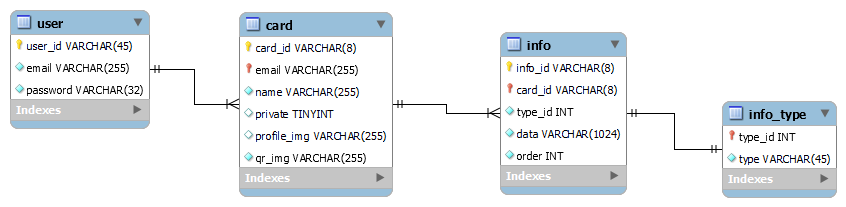
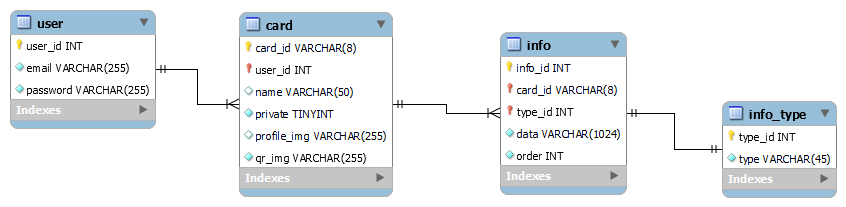
added ER diagram and tables to latex - project 5

diff --git a/project3/main.tex b/project3/main.tex
@@ -246,13 +246,89 @@ information you want all at once?
 \begin{enumerate}[4.a.]
     \item ER Diagram\\
      - Prolog explaining what is the purpose of this section.\\
-     - The ER Diagram
-    
+     - The ER Diagram\\
+     \includegraphics[width=\linewidth]{er.png}
     \item Table Design.\\
     In each table, you should describe following information with bullets or tables:\\
  - The fields information for each table with comments\\
  - Briefly describe why you design the table, such as why you design this field as VARCHAR.\\
  - If this table has foreign key, please describe the relation between this table and other tables.\\
+    \footnotesize
+    \singlespacing
+    \begin{tabular}{|c|c|c|c|c|c|c|c|}
+        \hline
+        \multicolumn{8}{|l|}{\bf user}\\
+        \hline
+        \hline
+        \thead{Primary\\Key} & \thead{Field\\Name} & \thead{Data\\Type} & \thead{Not\\Null} & Unique & Binary & \thead{Foreign\\Key} & Comments \\
+        \hline
+        \checkmark & user\_id & int & \checkmark & \checkmark & & & \makecell{Automatically incremented\\for each new user.}\\
+        \hline
+         & email & varchar(255) & \checkmark & \checkmark & & & \makecell{Used to log on.}\\
+        \hline
+        & password & varchar(255) & \checkmark & & & & \makecell{Used to log on, hashed.}\\
+        \hline
+    \end{tabular}
+    
+    \vspace{1cm}
+    
+    \begin{tabular}{|c|c|c|c|c|c|c|c|}
+        \hline
+        \multicolumn{8}{|l|}{{\bf card} \ntab\ntab {\it one-to-many relationship with user}}\\
+        \hline
+        \hline
+        \thead{Primary\\Key} & \thead{Field\\Name} & \thead{Data\\Type} & \thead{Not\\Null} & Unique & Binary & \thead{Foreign\\Key} & Comments \\
+        \hline
+        \checkmark & card\_id & varchar(8) & \checkmark & \checkmark & & & \makecell{Automatically incremented\\for each new card.}\\
+        \hline
+         & user\_id & int & \checkmark & & & \checkmark & \makecell{Identify which user\\owns each card.}\\
+        \hline
+         & name & varchar(50) & & & & & \makecell{Allows the user\\to name each card.}\\
+        \hline
+         & private & tinyint & \checkmark & & & & \makecell{0 = public\\1 = private}\\
+        \hline
+        & profile\_img & varchar(255) & & & & & \makecell{Path to user-uploaded\\profile image.}\\
+        \hline
+        & qr\_img & varchar(255) & \checkmark & \checkmark & & & \makecell{Path to unique QR\\image linked to card.}\\
+        \hline
+    \end{tabular}
+    
+        \vspace{1cm}
+    
+    \begin{tabular}{|c|c|c|c|c|c|c|c|}
+        \hline
+        \multicolumn{8}{|l|}{{\bf info} \ntab\ntab {\it one-to-many relationship with card}}\\
+        \multicolumn{8}{|l|}{\ntab\ntab\ntab {\it one-to-one relationship with info\_type}}\\
+        \hline
+        \hline
+        \thead{Primary\\Key} & \thead{Field\\Name} & \thead{Data\\Type} & \thead{Not\\Null} & Unique & Binary & \thead{Foreign\\Key} & Comments \\
+        \hline
+        \checkmark & info\_id & int & \checkmark & \checkmark & & & \makecell{Automatically incremented\\for each new info entry.}\\
+        \hline
+         & card\_id & varchar(8) & \checkmark & & & \checkmark & \makecell{Identify which card\\each entry goes with.}\\
+        \hline
+         & type\_id & int & \checkmark & & & \checkmark & \makecell{Assigns info type\\from info\_type table.}\\
+        \hline
+        & data & varchar(1024) & \checkmark & & & & \makecell{User-entered info data.}\\
+        \hline
+        & order & int & \checkmark & & & & \makecell{Allow user to choose\\ordering of card info.}\\
+        \hline
+    \end{tabular}
+    
+    \vspace{1cm}
+    
+    \begin{tabular}{|c|c|c|c|c|c|c|c|}
+        \hline
+        \multicolumn{8}{|l|}{{\bf info\_type}}\\
+        \hline
+        \hline
+        \thead{Primary\\Key} & \thead{Field\\Name} & \thead{Data\\Type} & \thead{Not\\Null} & Unique & Binary & \thead{Foreign\\Key} & Comments \\
+        \hline
+        \checkmark & type\_id & int & \checkmark & \checkmark & & & \makecell{Automatically incremented\\for each new info type.}\\
+        \hline
+         & type & varchar(45) & \checkmark & \checkmark & & & \makecell{Name of the info type\\e.g. "email", "phone".}\\
+        \hline
+    \end{tabular}
     
     
 \end{enumerate}
